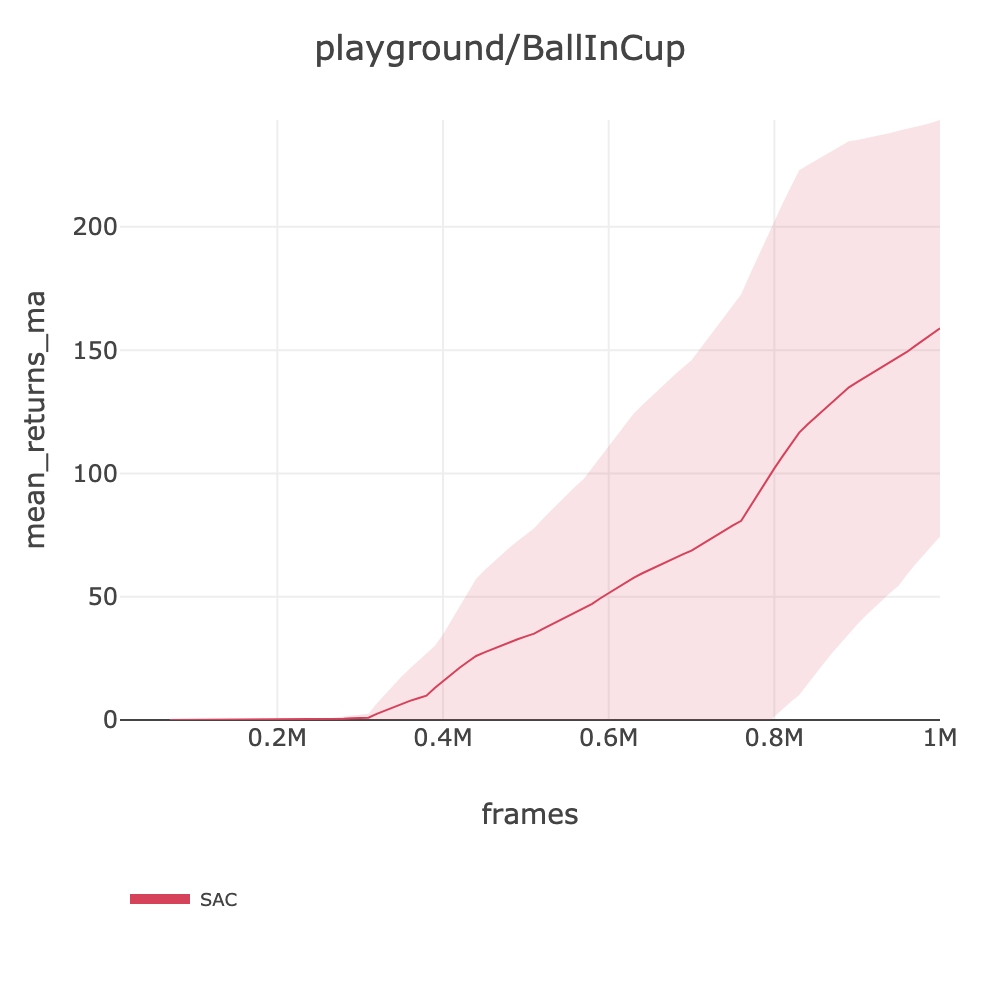
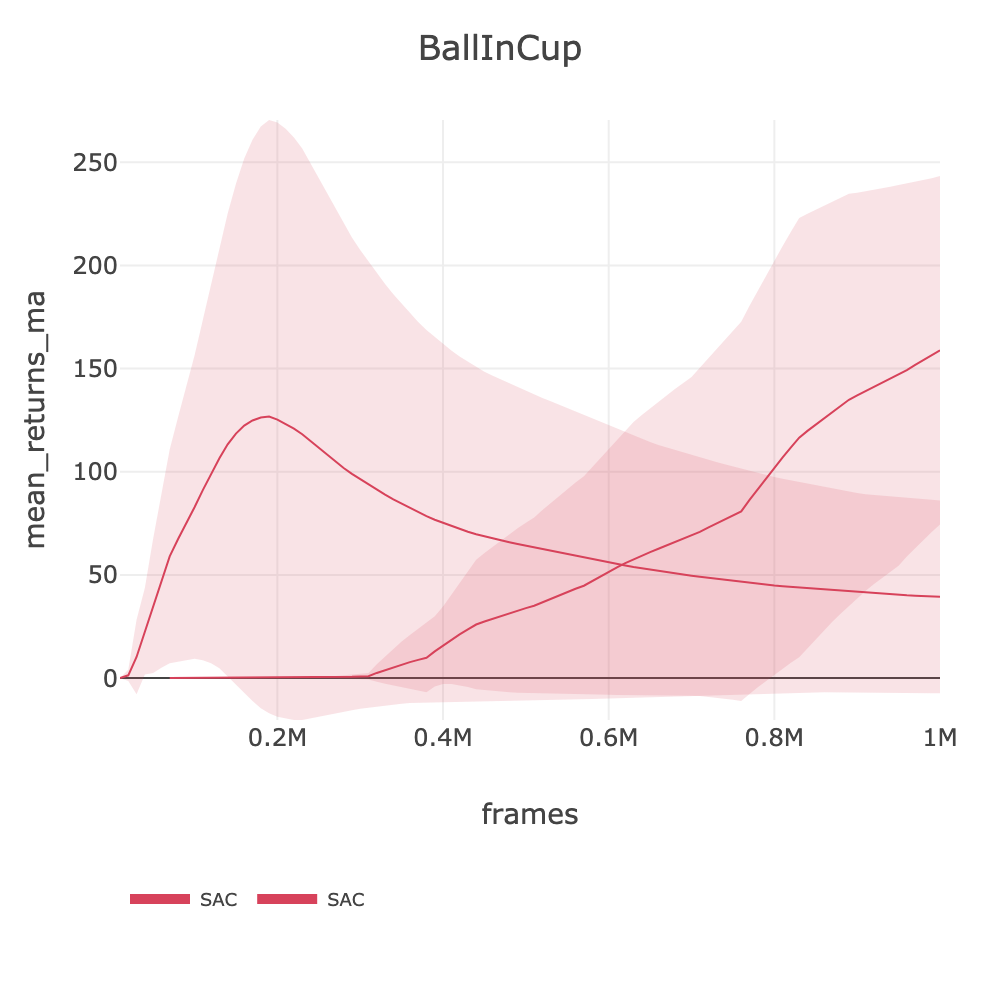
feat: Phase 5 CartpoleSwingupSparse SAC UTD=1 (0.38), HopperHop SAC UTD=1 (1.56), BallInCup UTD=1 data

diff --git a/docs/BENCHMARKS.md b/docs/BENCHMARKS.md
@@ -797,16 +797,16 @@ source .env && slm-lab run-remote --gpu -s env=playground/CartpoleBalance -s max
 | playground/CartpoleBalanceSparse | 504.59 | - | ~992 | ~310 (PPO/256e) | 1M | ~0.9h | [ppo_playground_arc_cartpolebalancesparse_2026_03_06_181842](https://huggingface.co/datasets/SLM-Lab/benchmark-dev/tree/main/data/ppo_playground_arc_cartpolebalancesparse_2026_03_06_181842) |
 | playground/CartpoleSwingup | - | 371.40 | ~868 | ~60 (SAC-UTD1/4e) | 1M | ~4.6h | [sac_playground_arc_cartpoleswingup_2026_03_06_130653](https://huggingface.co/datasets/SLM-Lab/benchmark-dev/tree/main/data/sac_playground_arc_cartpoleswingup_2026_03_06_130653) |
 | playground/AcrobotSwingupSparse | - | 0.00 | ~20 | ~67 (SAC-UTD1/4e) | 1M | ~4.6h | [sac_playground_arc_utd1_acrobotswingupsparse_2026_03_06_221029](https://huggingface.co/datasets/SLM-Lab/benchmark-dev/tree/main/data/sac_playground_arc_utd1_acrobotswingupsparse_2026_03_06_221029) |
-| playground/CartpoleSwingupSparse | - | - | ~630 | - | - | - | - |
+| playground/CartpoleSwingupSparse | - | 0.38 | ~630 | ~67 (SAC-UTD1/4e) | 1M | ~4.6h | [sac_playground_arc_utd1_cartpoleswingupsparse_2026_03_06_221127](https://huggingface.co/datasets/SLM-Lab/benchmark-dev/tree/main/data/sac_playground_arc_utd1_cartpoleswingupsparse_2026_03_06_221127) |
 | playground/FingerSpin | - | 327.57 | ~742 | ~350 (SAC-fast/64e) | 1M | ~0.8h | [sac_playground_arc_fingerspin_2026_03_06_150750](https://huggingface.co/datasets/SLM-Lab/benchmark-dev/tree/main/data/sac_playground_arc_fingerspin_2026_03_06_150750) |
 | playground/FingerTurnEasy | - | 408.73 | ~709 | ~350 (SAC-fast/64e) | 1M | ~0.8h | [sac_playground_arc_fingerturneasy_2026_03_06_134326](https://huggingface.co/datasets/SLM-Lab/benchmark-dev/tree/main/data/sac_playground_arc_fingerturneasy_2026_03_06_134326) |
 | playground/FingerTurnHard | - | 198.22 | ~249 | ~413 (SAC-fast/64e) | 2M | ~1.3h | [sac_playground_arc_fast_fingerturnhard_2026_03_06_181841](https://huggingface.co/datasets/SLM-Lab/benchmark-dev/tree/main/data/sac_playground_arc_fast_fingerturnhard_2026_03_06_181841) |
 | playground/FishSwim | - | 98.57 | ~136 | ~114 (SAC/16e) | 2M | ~4.7h | [sac_playground_arc_fishswim_2026_03_06_134402](https://huggingface.co/datasets/SLM-Lab/benchmark-dev/tree/main/data/sac_playground_arc_fishswim_2026_03_06_134402) |
-| playground/HopperHop | - | 0.00 | ~295 | ~533fps (SAC-fast/64e) | 2M | ~1.0h | [sac_playground_arc_fast_hopperhop_2026_03_06_224113](https://huggingface.co/datasets/SLM-Lab/benchmark-dev/tree/main/data/sac_playground_arc_fast_hopperhop_2026_03_06_224113) |
+| playground/HopperHop | - | 1.56 | ~295 | ~67 (SAC-UTD1/4e) | 1M | ~4.6h | [sac_playground_arc_utd1_hopperhop_2026_03_06_235252](https://huggingface.co/datasets/SLM-Lab/benchmark-dev/tree/main/data/sac_playground_arc_utd1_hopperhop_2026_03_06_235252) |
 | playground/HopperStand | - | 277.46 | ~645 | ~350 (SAC-fast/64e) | 1M | ~0.8h | [sac_playground_arc_hopperstand_2026_03_06_125934](https://huggingface.co/datasets/SLM-Lab/benchmark-dev/tree/main/data/sac_playground_arc_hopperstand_2026_03_06_125934) |
-| playground/HumanoidRun | - | 4.20 | ~11 | ~335fps (SAC-fast/64e) | 2M | ~1.7h | [sac](https://huggingface.co/datasets/SLM-Lab/benchmark-dev/tree/main/data/sac_playground_arc_fast_humanoidrun_2026_03_06_221329) |
-| playground/HumanoidStand | - | 24.73 | ~514 | ~329fps (SAC-fast/64e) | 2M | ~1.7h | — HF upload failed (412 conflict), needs rerun |
-| playground/PendulumSwingup | 35.74 | 0.00 | ~959 | ~2000(PPO) / ~350(SAC) | 1M | ~0.1h / ~0.8h | [ppo](https://huggingface.co/datasets/SLM-Lab/benchmark-dev/tree/main/data/ppo_playground_arc_pendulumswingup_2026_03_06_094355) [sac](https://huggingface.co/datasets/SLM-Lab/benchmark-dev/tree/main/data/sac_playground_arc_pendulumswingup_2026_03_06_150813) |
+| playground/HumanoidRun | - | 7.90 | ~11 | ~335fps (SAC-fast/64e) | 4M | ~3.4h | [sac](https://huggingface.co/datasets/SLM-Lab/benchmark-dev/tree/main/data/sac_playground_arc_fast_humanoidrun_2026_03_07_001036) |
+| playground/HumanoidStand | - | 26.44 | ~514 | ~329fps (SAC-fast/64e) | 2M | ~1.7h | [sac](https://huggingface.co/datasets/SLM-Lab/benchmark-dev/tree/main/data/sac_playground_arc_fast_humanoidstand_2026_03_07_000958) |
+| playground/PendulumSwingup | 35.74 | 0.00 | ~959 | ~2000(PPO) / ~350(SAC) | 1M | ~0.1h / ~0.8h | [ppo](https://huggingface.co/datasets/SLM-Lab/benchmark-dev/tree/main/data/ppo_playground_arc_pendulumswingup_2026_03_06_094355) [sac](https://huggingface.co/datasets/SLM-Lab/benchmark-dev/tree/main/data/sac_playground_arc_pendulumswingup_2026_03_06_150813) [sac-utd1](https://huggingface.co/datasets/SLM-Lab/benchmark-dev/tree/main/data/sac_playground_arc_utd1_pendulumswingup_2026_03_06_221129) |
 | playground/PointMass | 493.79 | - | ~988 | ~2000 (PPO/256e) | 500K | ~0.1h | [ppo_playground_arc_pointmass_2026_03_06_105141](https://huggingface.co/datasets/SLM-Lab/benchmark-dev/tree/main/data/ppo_playground_arc_pointmass_2026_03_06_105141) |
 | playground/ReacherEasy | 285.63 | - | ~945 | ~2000 (PPO/256e) | 500K | ~0.1h | [ppo_playground_arc_reachereasy_2026_03_06_102444](https://huggingface.co/datasets/SLM-Lab/benchmark-dev/tree/main/data/ppo_playground_arc_reachereasy_2026_03_06_102444) |
 | playground/ReacherHard | - | 958.57 | ~225 | ~481 (SAC-fast/64e) | 2M | ~1.2h | [sac_playground_arc_fast_reacherhard_2026_03_06_181908](https://huggingface.co/datasets/SLM-Lab/benchmark-dev/tree/main/data/sac_playground_arc_fast_reacherhard_2026_03_06_181908) |
